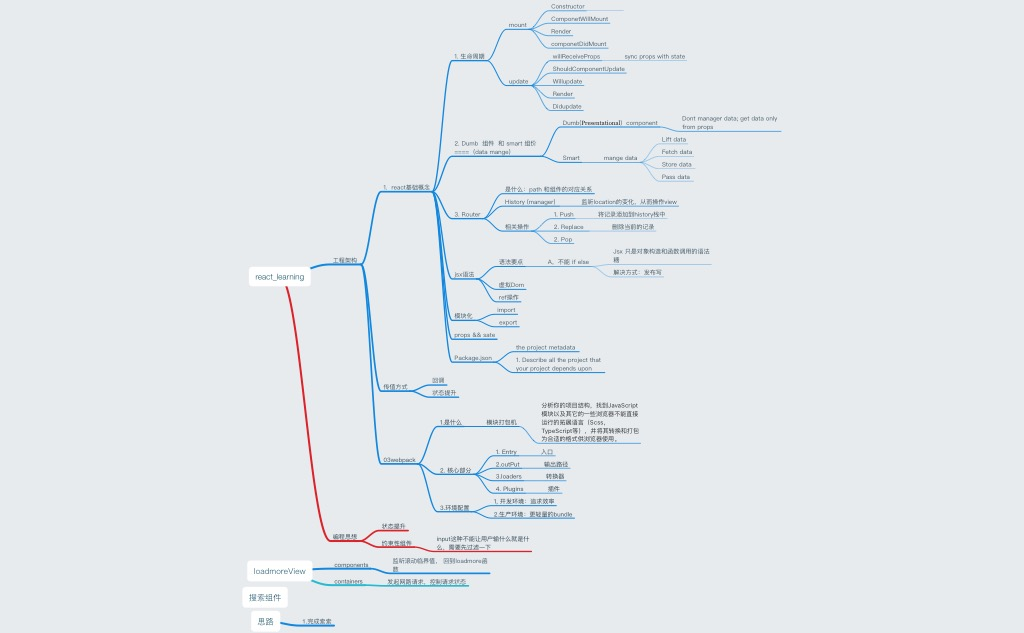
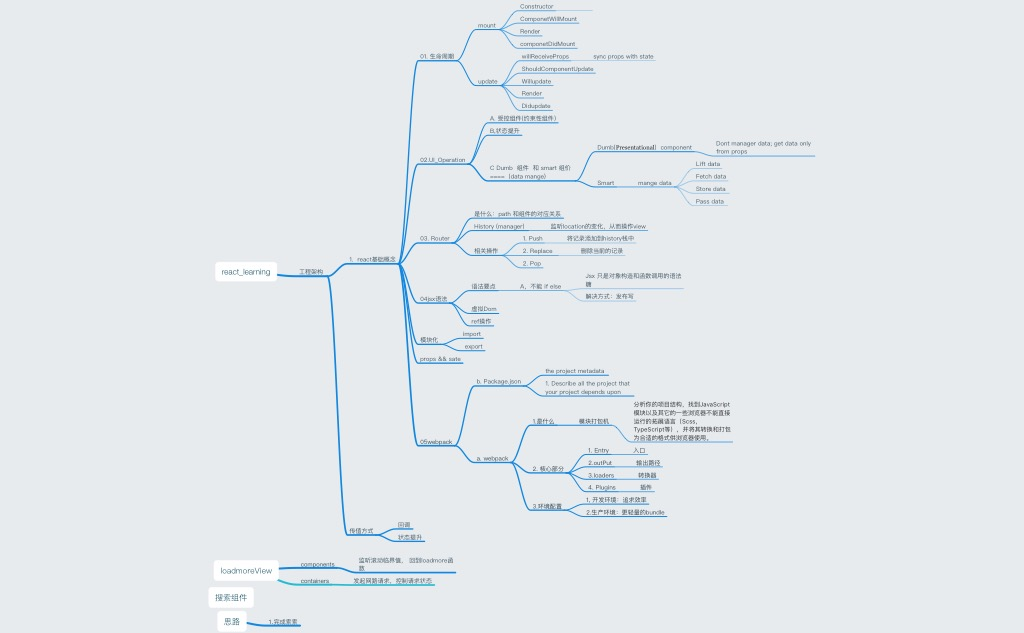
webpack

Changed region(s): [[0.2188, 0.0, 0.7812, 1.0], [0.3125, 0.6603, 0.3438, 0.6904]]

diff --git a/02UI_Operation.md b/02UI_Operation.md
@@ -1,0 +1,159 @@
+## React 的声明周期
+
+### React Cyclelife
+
+#### Mounting
+
+- [`constructor()`](https://facebook.github.io/react/docs/react-component.html#constructor)
+- [`componentWillMount()`](https://facebook.github.io/react/docs/react-component.html#componentwillmount)
+- [`render()`](https://facebook.github.io/react/docs/react-component.html#render)
+- [`componentDidMount()`](https://facebook.github.io/react/docs/react-component.html#componentdidmount)
+
+#### update
+
+> An update can be caused by changes to props or state. These methods are called when a component is being re-rendered:
+>
+> - [`componentWillReceiveProps()`](https://facebook.github.io/react/docs/react-component.html#componentwillreceiveprops)
+> - [`shouldComponentUpdate()`](https://facebook.github.io/react/docs/react-component.html#shouldcomponentupdate)
+> - [`componentWillUpdate()`](https://facebook.github.io/react/docs/react-component.html#componentwillupdate)
+> - [`render()`](https://facebook.github.io/react/docs/react-component.html#render)
+> - [`componentDidUpdate()`](https://facebook.github.io/react/docs/react-component.html#componentdidupdate)
+
+参考:
+
+[React.Component](https://facebook.github.io/react/docs/react-component.html#mounting)
+
+
+## 属性的改变
+### state 内部属性
+- 特点1:异步刷新的
+```javascript
+handleClickOnLikeButton () {
+  this.setState({ count: 0 }) // => this.state.count 还是 undefined
+  this.setState({ count: this.state.count + 1}) // => undefined + 1 = NaN
+  this.setState({ count: this.state.count + 2}) // => NaN + 2 = NaN
+}
+```
+**更改state并不会马上刷新**
+解决方式
+```javascrip
+  handleClickOnLikeButton () {
+    this.setState((prevState) => {
+      return { count: 0 }
+    })
+    this.setState((prevState) => {
+      return { count: prevState.count + 1 } // 上一个 setState 的返回是 count 为 0，当前返回 1
+    })
+    this.setState((prevState) => {
+      return { count: prevState.count + 2 } // 上一个 setState 的返回是 count 为 1，当前返回 3
+    })
+    // 最后的结果是 this.state.count 为 3
+  }
+```
+
+
+### props 外部属性
+
+
+
+### 渲染列表数据
+a. 对于用表达式套数组罗列到页面上的元素，都要为每个元素加上 key 属性，这个 key 必须是每个元素唯一的标识。(为了更高效的渲染)
+
+
+## JSX语法的理解
+```javascript
+class Header extends Component {
+  render () {
+    return (
+      <div>
+        <h1 className='title'>React 小书</h1>
+      </div>
+    )
+  }
+}
+```
+> 写在js里面的html 标签叫 jsx
+>
+> ![](http://huzidaha.github.io/static/assets/img/posts/44B5EC06-EAEB-4BA2-B3DC-325703E4BA45.png)
+
+
+
+
+
+## Router
+概念的理解：
+1. 注册一个配置表
+   <Router path ="/" component={PCIndex}></Router>
+
+通过上面的配置，这个应用知道如何渲染下面四个 URL：
+
+URL	组件
+1. /	App
+   2. /about App -> About
+   3. /inbox  App -> Inbox
+   4. /inbox/messages/:idApp -> Inbox -> Message
+
+
+
+
+path:
+2. 通过link完成跳转
+>  Link
+>  跳转的
+
+
+
+## React- render
+
+```html
+<div id="root"></div>
+
+const element = <h1>Hello, world</h1>;
+ReactDOM.render(
+  element,document.getElementById('root')
+);
+
+```
+
+
+## 模块化
+import:导入模块
+export：导出模块
+export default: （输出模块可以指定任意变量名）
+[Module 的语法](http://es6.ruanyifeng.com/#docs/module#export)
+
+
+
+## React
+
+### tips
+onclick 直接添加事件，
+需要手动绑定this
+
+
+### 属性
+state 内部属性；
+> 少用state，因为状态多了不好管理
+> props: 内部属性；
+
+setState
+会导致重新render
+
+#### 受控组件
+状态来自于React， 更好的控制状态
+而不是来自自己
+
+
+#### 状态提升
+ 多个组件 依赖 或者影响某个状态的时候，就需要把该状态提升到最近的公共组件
+
+
+## 真实的dom操作
+```
+<input ref={(input) => this.input = input} /> 通过ref 函数拿到一个真实dom节点
+```
+
+
+
+## 数据的持久化
+localstorage --
